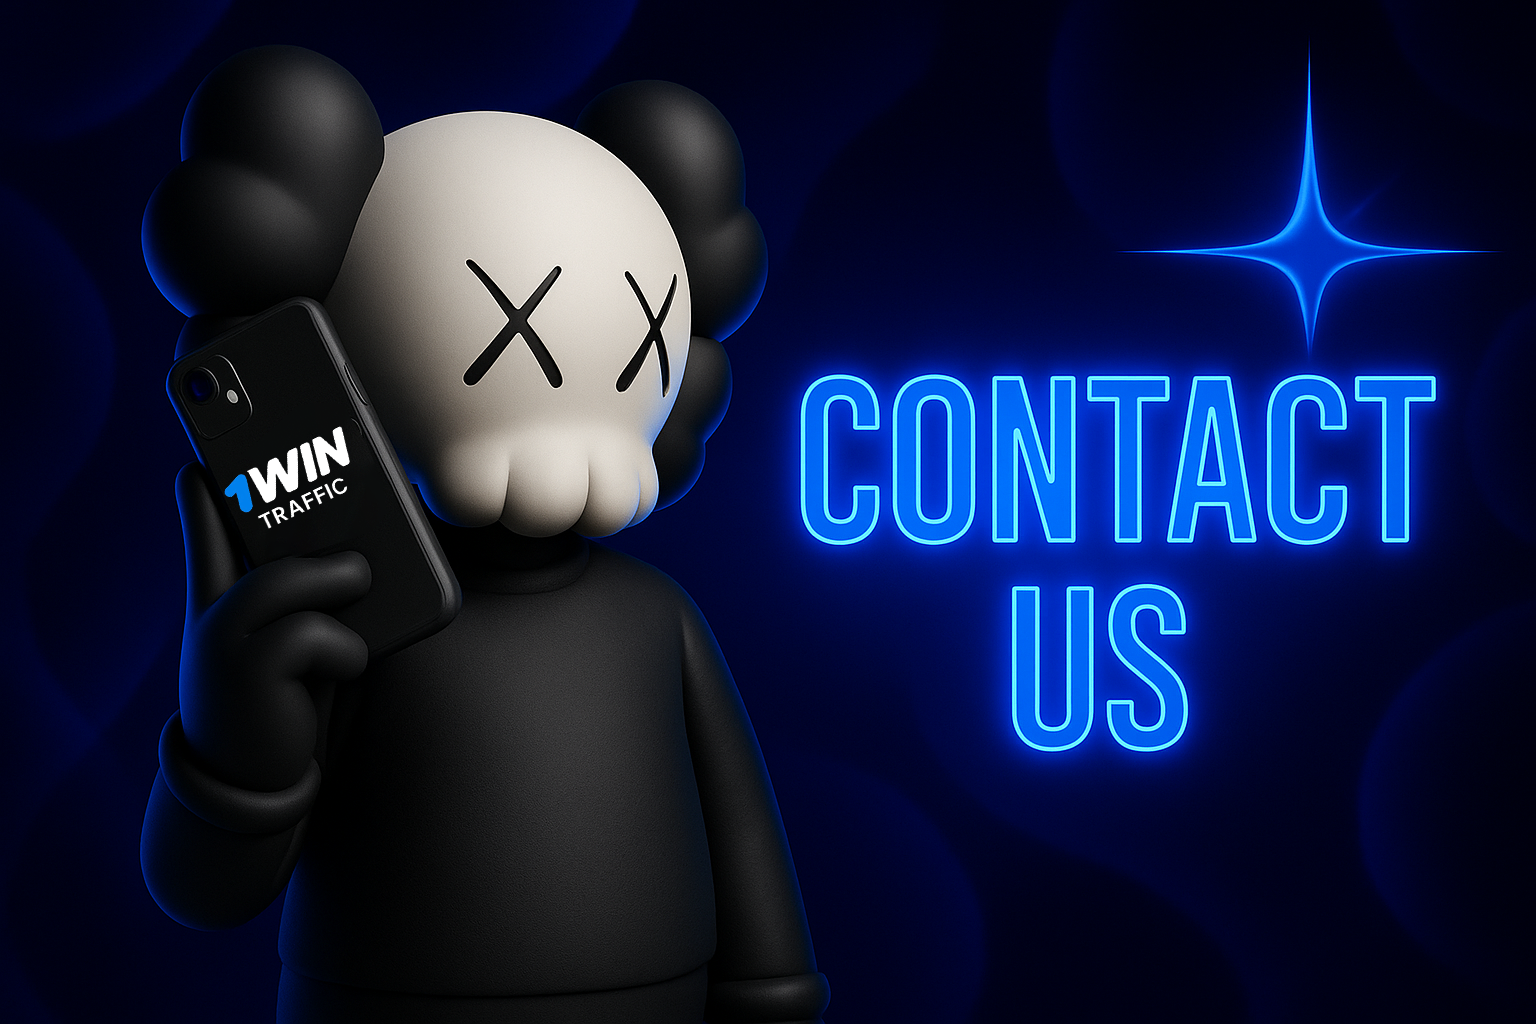
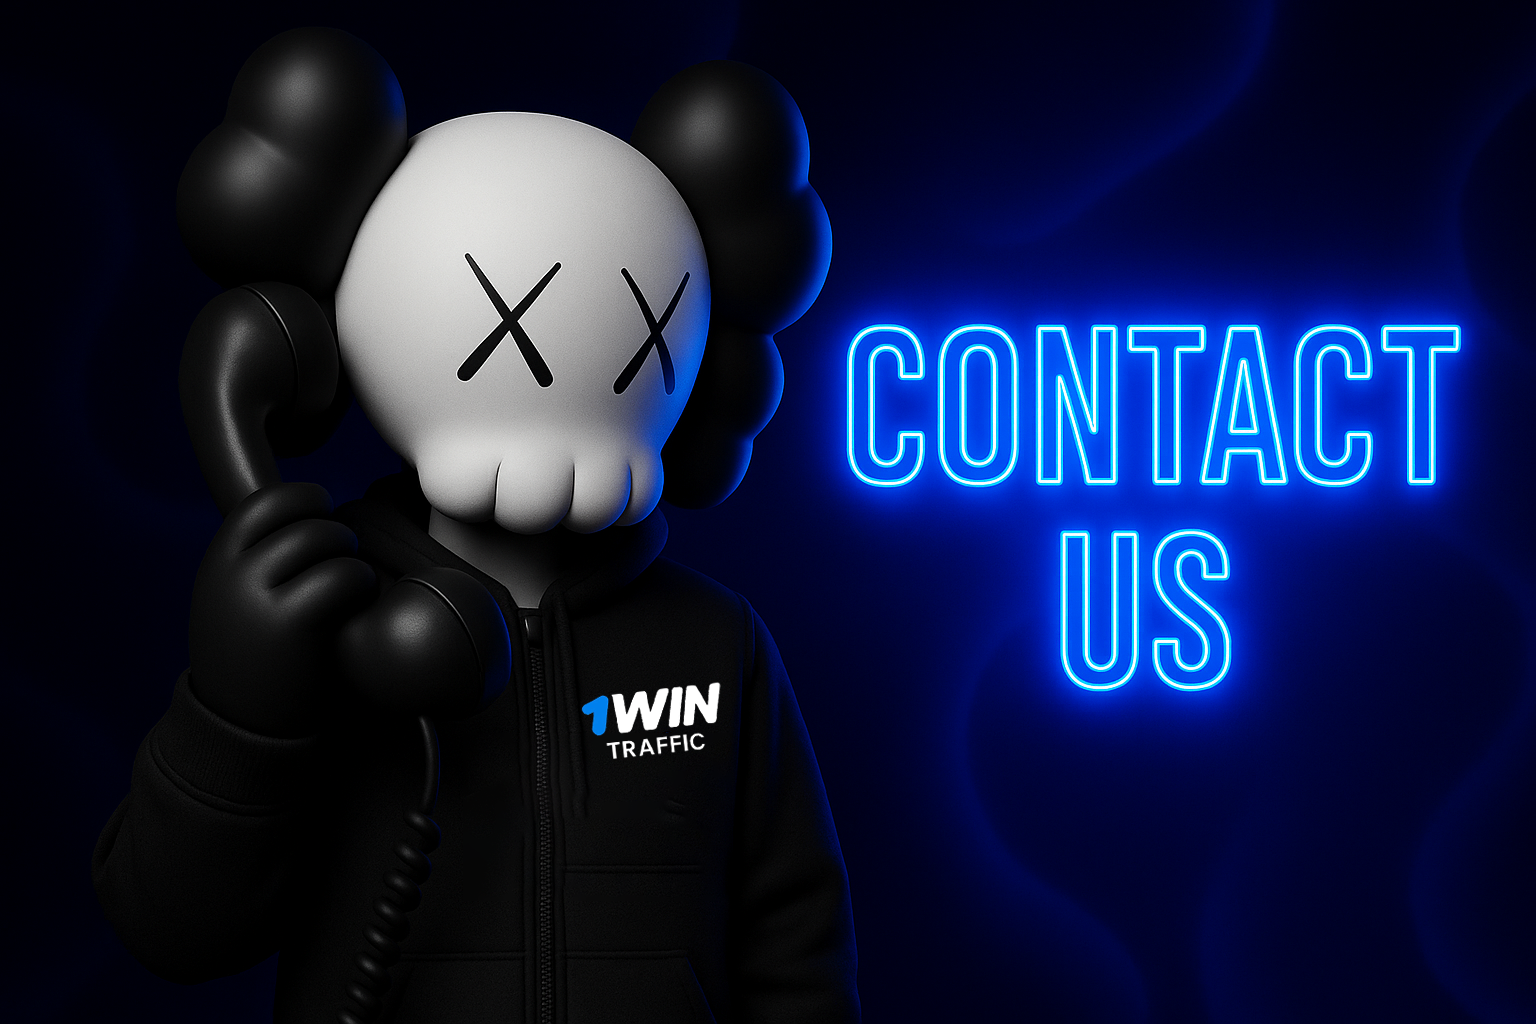
Added all necessary images. Added possibility to bot to send images, when person pushes button "Languages" or just "/start"

diff --git a/1WinTrafficBot/Bot/UpdateHandler.cs b/1WinTrafficBot/Bot/UpdateHandler.cs
@@ -349,11 +349,12 @@ namespace _1WinTrafficBot.Bot
             // ОБРАБОТКА КНОПКИ СМЕНЫ ЯЗЫКА
             if (text == Translate("language", lang))
             {
-                await _bot.SendMessage(
-                    chatId: userId,
-                    text: "Выберите язык:",
-                    replyMarkup: Keyboard.LanguageMenu()
-                );
+                //await _bot.SendMessage(
+                //    chatId: userId,
+                //    text: "Выберите язык:",
+                //    replyMarkup: Keyboard.LanguageMenu()
+                //);
+                await SendLanguageMenuWithImage(userId, lang);
                 return;
             }
 
@@ -378,11 +379,12 @@ namespace _1WinTrafficBot.Bot
                 lang = ConvertLanguage(text);
                 _userLang[userId] = lang;
 
-                await _bot.SendMessage(
-                    chatId: userId,
-                    text: GetStartMessage(lang),
-                    replyMarkup: Keyboard.MainMenu(lang)
-                );
+                //await _bot.SendMessage(
+                //    chatId: userId,
+                //    text: GetStartMessage(lang),
+                //    replyMarkup: Keyboard.MainMenu(lang)
+                //);
+                await SendWelcome(userId, lang);
                 return;
             }
 
@@ -414,19 +416,16 @@ namespace _1WinTrafficBot.Bot
                     break;
 
                 case var _ when text == Translate("back", lang):
-                    await _bot.SendMessage(
-                        chatId: userId,
-                        text: GetStartMessage(lang),
-                        replyMarkup: Keyboard.MainMenu(lang)
-                    );
+                    //await _bot.SendMessage(
+                    //    chatId: userId,
+                    //    text: GetStartMessage(lang),
+                    //    replyMarkup: Keyboard.MainMenu(lang)
+                    //);
+                    await SendWelcome(userId, lang);
                     break;
 
                 default:
-                    await _bot.SendMessage(
-                        chatId: userId,
-                        text: GetStartMessage(lang),
-                        replyMarkup: Keyboard.MainMenu(lang)
-                    );
+                    await SendWelcome(userId, lang);
                     break;
             }
         }
@@ -531,6 +530,72 @@ namespace _1WinTrafficBot.Bot
                 );
             }
         }
+
+        private async Task SendLanguageMenuWithImage(long chatId, string lang)
+        {
+            // 1. Правильный текст "Выберите язык" на выбранном языке
+            string caption = lang switch
+            {
+                "ru" => "Выберите язык:",
+                "ua" => "Оберіть мову:",
+                "en" => "Choose your language:",
+                "ar" => "اختر لغتك:",
+                _ => "Choose your language:"
+            };
+
+            // 2. Путь к картинке
+            string imagePath = Path.Combine("Images", "localization.png");
+
+            // 3. Если картинка существует — отправляем её
+            if (File.Exists(imagePath))
+            {
+                await using FileStream fs = new(imagePath, FileMode.Open, FileAccess.Read);
+
+                await _bot.SendPhoto(
+                    chatId: chatId,
+                    photo: Telegram.Bot.Types.InputFile.FromStream(fs, "localization.png"),
+                    caption: caption,
+                    replyMarkup: Keyboard.LanguageMenu()
+                );
+            }
+            else
+            {
+                // 4. Если картинки нет — всё равно отправляем подпись и кнопки
+                await _bot.SendMessage(
+                    chatId: chatId,
+                    text: $"(⚠ localization.png не найден)\n\n{caption}",
+                    replyMarkup: Keyboard.LanguageMenu()
+                );
+            }
+        }
+
+        private async Task SendWelcome(long chatId, string? lang)
+        {
+            string message = GetStartMessage(lang); // текст приветствия
+
+            string imagePath = Path.Combine("Images", "welcome.png");
+
+            if (File.Exists(imagePath))
+            {
+                await using FileStream fs = new(imagePath, FileMode.Open, FileAccess.Read);
+
+                await _bot.SendPhoto(
+                    chatId: chatId,
+                    photo: Telegram.Bot.Types.InputFile.FromStream(fs, "welcome.png"),
+                    caption: message, // подпись под картинкой
+                    replyMarkup: Keyboard.MainMenu(lang)
+                );
+            }
+            else
+            {
+                await _bot.SendMessage(
+                    chatId: chatId,
+                    text: $"(⚠ welcome.png не найден)\n\n{message}",
+                    replyMarkup: Keyboard.MainMenu(lang)
+                );
+            }
+        }
+
 
         // Обработка "Заинтересован"
         private async Task HandleInterest(Message msg)

diff --git a/1WinTrafficBot/Program.cs b/1WinTrafficBot/Program.cs
@@ -12,7 +12,7 @@ namespace _1WinTrafficBot
 
             Console.WriteLine("=== 1WIN TRAFFIC BOT ===");
 
-            string token = "8255765312:AAHYM-VXe1Jyfc8Dlkkjavox33YKA4Gt604";
+            string token = "8555782174:AAH5NPj2UDuhH0oE02nC6ie4c_BEjFTx-2U";
 
             if (string.IsNullOrEmpty(token))
             {
